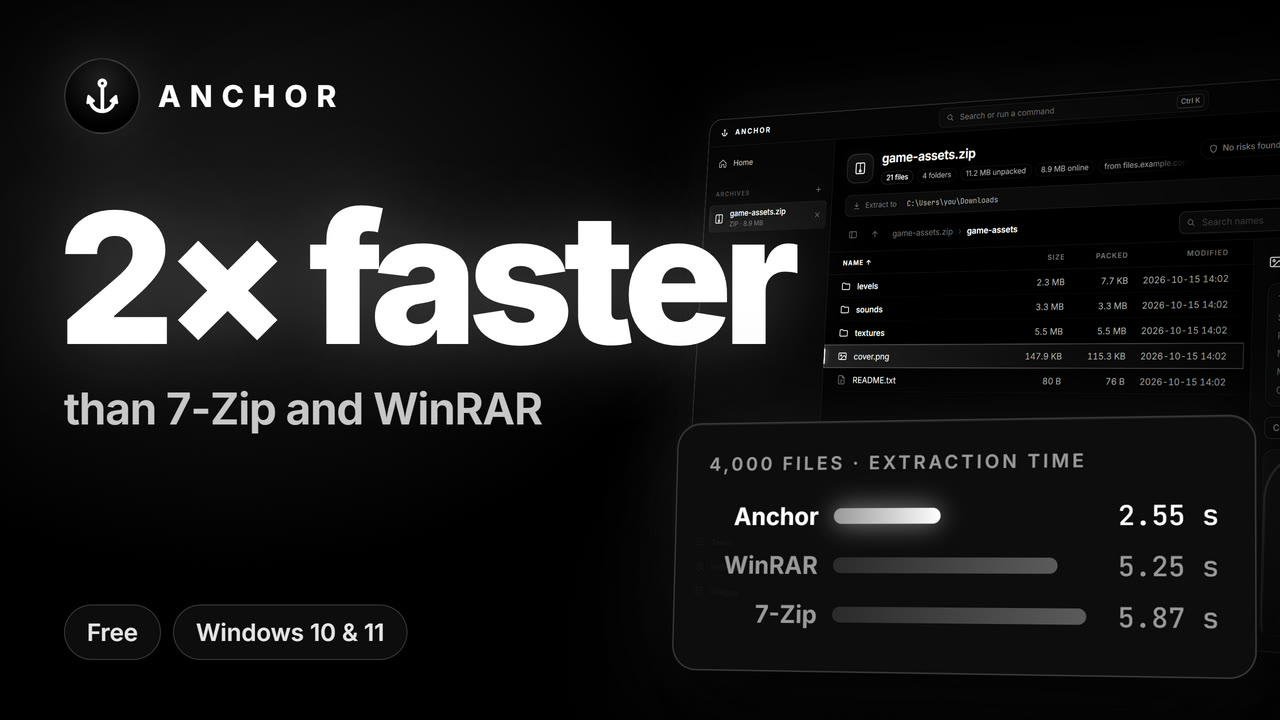
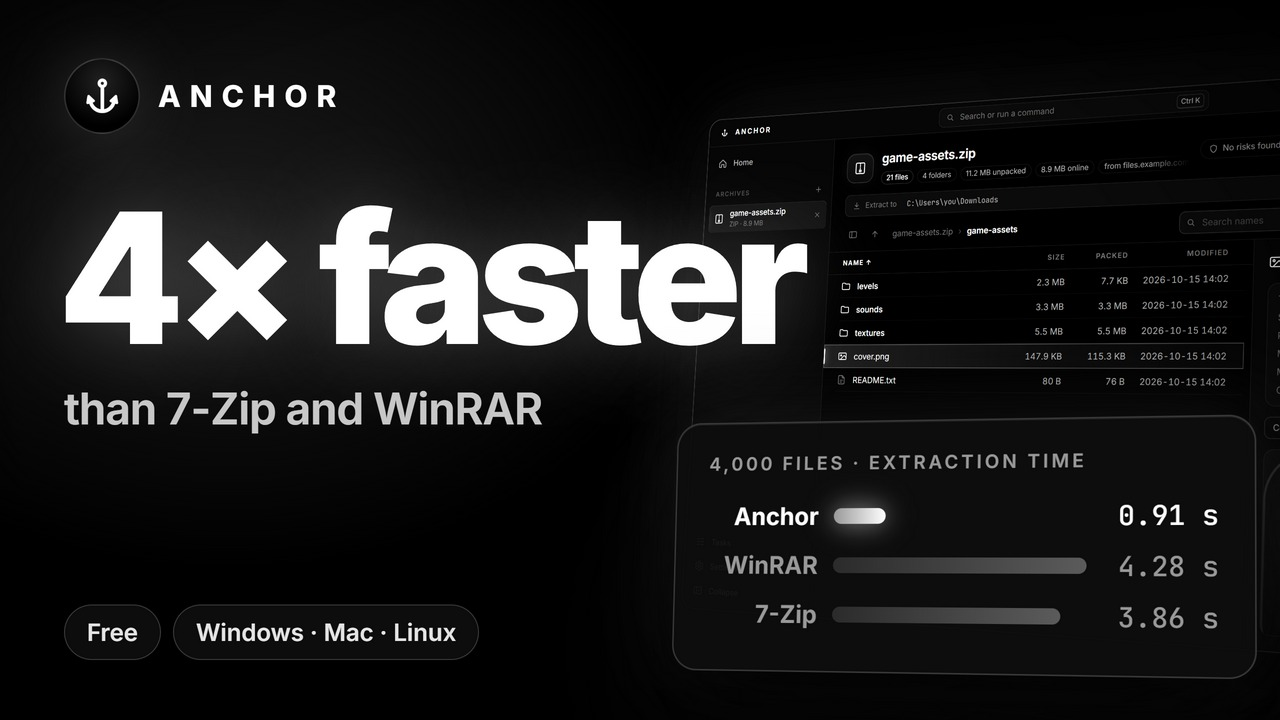
Anchor 0.6.0: Mac downloads, new speed numbers, accessibility fixes
Mac visitors get the Apple silicon .dmg (Intel a click away), an "On a Mac" install card, the
benchmark from 0.6.0 (up to 4x faster on archives with many files), structured data for search
engines, higher text contrast and row headers in the tables.

diff --git a/index.html b/index.html
@@ -3,17 +3,18 @@
 <head>
 <meta charset="utf-8">
 <meta name="viewport" content="width=device-width, initial-scale=1">
-<title>Anchor: the fast, free archive tool for Windows</title>
-<meta name="description" content="Anchor opens ZIP, 7Z, RAR, TAR, ZST, ISO and more, extracts many-file archives about 2× faster than 7-Zip and WinRAR, repairs broken downloads and checks archives before extracting. Free for Windows 10 and 11, and Linux.">
+<title>Anchor: the fast, free archive tool for Windows, Mac and Linux</title>
+<meta name="description" content="Anchor opens ZIP, 7Z, RAR, TAR, ZST, ISO and more, extracts many-file archives up to 4× faster than 7-Zip and WinRAR, repairs broken downloads and checks archives before extracting. Free for Windows, Mac and Linux.">
 <meta name="theme-color" content="#000000">
 <link rel="icon" href="assets/favicon.png">
 <link rel="apple-touch-icon" href="assets/icon.png">
 <meta property="og:type" content="website">
 <meta property="og:url" content="https://tryanchor.github.io/">
-<meta property="og:title" content="Anchor: the fast, free archive tool for Windows">
-<meta property="og:description" content="2× faster than 7-Zip and WinRAR on archives with many files. Opens ZIPs from a link, repairs broken downloads, flags disguised programs. Free.">
+<meta property="og:title" content="Anchor: the fast, free archive tool for Windows, Mac and Linux">
+<meta property="og:description" content="Up to 4× faster than 7-Zip and WinRAR on archives with many files. Opens ZIPs from a link, repairs broken downloads, flags disguised programs. Free.">
 <meta property="og:image" content="https://tryanchor.github.io/assets/og.jpg">
 <meta name="twitter:card" content="summary_large_image">
+<script type="application/ld+json">{"@context":"https://schema.org","@type":"SoftwareApplication","name":"Anchor","description":"A fast, free archive tool: opens ZIP, 7Z, RAR, TAR, ZST, ISO and more, extracts archives with many files faster than 7-Zip and WinRAR, repairs broken downloads and checks archives before extracting.","url":"https://tryanchor.github.io/","downloadUrl":"https://github.com/realhenners/anchor-releases/releases/latest","image":"https://tryanchor.github.io/assets/og.jpg","applicationCategory":"UtilitiesApplication","operatingSystem":"Windows 10, Windows 11, macOS 12 or later, Linux","offers":{"@type":"Offer","price":"0","priceCurrency":"USD"},"author":{"@type":"Person","name":"realhenners"}}</script>
 <link rel="preload" href="assets/fonts/inter-latin-wght-normal.woff2" as="font" type="font/woff2" crossorigin>
 <link rel="stylesheet" href="style.css">
 </head>
@@ -37,7 +38,7 @@
     <div class="grid-bg" aria-hidden="true"></div>
     <div class="mark reveal" style="--d: 0"><img src="assets/logo.png" alt="Anchor logo" width="132" height="132"></div>
     <h1 class="reveal" style="--d: 1">Anchor</h1>
-    <p class="lead reveal" style="--d: 2">The archive tool for Windows that opens anything, extracts faster, and fixes what is broken.</p>
+    <p class="lead reveal" style="--d: 2">The archive tool that opens anything, extracts faster, and fixes what is broken. For Windows, Mac and Linux.</p>
     <ul class="pills reveal" style="--d: 3" aria-label="Formats">
       <li>ZIP</li><li>7Z</li><li>RAR</li><li>TAR</li><li>GZ</li><li>ZST</li><li>ISO</li>
     </ul>
@@ -46,9 +47,9 @@
         <svg width="22" height="22" viewBox="0 0 24 24" fill="none" stroke="currentColor" stroke-width="2" stroke-linecap="round" stroke-linejoin="round" aria-hidden="true"><path d="M12 4v11M7 10l5 5 5-5M5 20h14"/></svg>
         Download for Windows
       </a>
-      <p class="meta" data-download-meta>Free · Windows 10&nbsp;and&nbsp;11 and Linux · x64 and ARM64</p>
+      <p class="meta" data-download-meta>Free · Windows, Mac and Linux · x64 and ARM64</p>
       <button class="switch" type="button" data-arch-switch hidden></button>
-      <p class="note" data-platform-note hidden>Anchor is for Windows and Linux. Open this page on a Windows or Linux PC to download it.</p>
+      <p class="note" data-platform-note hidden>Anchor is for Windows, Mac and Linux. Open this page on a computer to download it.</p>
     </div>
     <div class="stage reveal" style="--d: 5">
       <img class="hero-shot" src="assets/shots/link-preview.webp" alt="Anchor showing the contents of a ZIP archive opened from a link, with a preview of an image" width="1239" height="780" data-tilt>
@@ -59,7 +60,7 @@
   <section class="section" id="speed">
     <p class="kicker reveal">Speed</p>
     <h2 class="reveal">Same archive. Three extractors.</h2>
-    <p class="sub reveal">Windows spends most of an extraction creating files, because antivirus checks each one. 7-Zip and WinRAR write them one at a time; Anchor decodes the archive once and writes up to 32 at the same time.</p>
+    <p class="sub reveal">Most of an extraction is spent decoding and creating files, and antivirus checks each new file. 7-Zip and WinRAR do it all one file at a time on one core; Anchor splits the archive across every core and writes many files at once.</p>
 
     <div class="tabs reveal" role="tablist" aria-label="Benchmark">
       <button role="tab" aria-selected="true" data-set="small">4,000 small files</button>
@@ -78,15 +79,15 @@
     </div>
 
     <div class="stats">
-      <div class="stat card reveal" style="--d: 0"><b data-count="2.3" data-suffix="×">0×</b><span>faster than 7-Zip</span></div>
-      <div class="stat card reveal" style="--d: 1"><b data-count="2.1" data-suffix="×">0×</b><span>faster than WinRAR</span></div>
+      <div class="stat card reveal" style="--d: 0"><b data-count="4.2" data-suffix="×">0×</b><span>faster than 7-Zip</span></div>
+      <div class="stat card reveal" style="--d: 1"><b data-count="4.7" data-suffix="×">0×</b><span>faster than WinRAR</span></div>
       <div class="stat card reveal" style="--d: 2"><b data-count="32" data-decimals="0">0</b><span>files written at once</span></div>
     </div>
 
     <details class="numbers reveal">
       <summary>See all the numbers</summary>
       <div class="numbers-body">
-        <p>Extraction time on one Windows PC with 24 cores; each tool extracted every archive three times into an empty folder, producing the same files, and the best time counts. Fastest in bold. Anchor is faster on archives with many files; with one or a few large files every tool waits on decompression, and 7-Zip and WinRAR are slightly faster on large 7Z and RAR files.</p>
+        <p>Extraction time on one Windows PC with 24 cores; each tool extracted every archive three times into an empty folder, producing the same files, and the best time counts. Fastest in bold. Anchor is fastest on archives with many files and on several large files, where it decodes them side by side. With one large file every tool waits on the same decompression: the times are close, and WinRAR is quicker on a single large RAR.</p>
         <div class="table-wrap"><table data-numbers></table></div>
       </div>
     </details>
@@ -105,7 +106,7 @@
       <article class="feature card reveal" style="--d: 5"><span class="icon" aria-hidden="true"><svg viewBox="0 0 24 24"><path d="M2 12s3.5-7 10-7 10 7 10 7-3.5 7-10 7S2 12 2 12z"/><circle cx="12" cy="12" r="3"/></svg></span><h3>Preview inside</h3><p>Images, video, audio, PDF and text, straight from the archive. Search names or text inside files.</p></article>
       <article class="feature card reveal" style="--d: 6"><span class="icon" aria-hidden="true"><svg viewBox="0 0 24 24"><rect x="3" y="3" width="18" height="18" rx="2"/><path d="M12 3v18M12 12h9M16.5 12v9"/></svg></span><h3>Size map</h3><p>See what takes the space and find duplicate files, with how much they waste.</p></article>
       <article class="feature card reveal" style="--d: 7"><span class="icon" aria-hidden="true"><svg viewBox="0 0 24 24"><rect x="5" y="11" width="14" height="10" rx="2"/><path d="M8 11V7a4 4 0 0 1 8 0v4"/></svg></span><h3>Passwords and recovery data</h3><p>AES-256 encryption, split volumes, and 5–20% repair data so damage can be fixed later.</p></article>
-      <article class="feature card reveal" style="--d: 8"><span class="icon" aria-hidden="true"><svg viewBox="0 0 24 24"><rect x="3" y="4" width="18" height="16" rx="2"/><path d="m7 9 3 3-3 3M13 15h4"/></svg></span><h3>Explorer and command line</h3><p>Right-click to extract, preview archives in Explorer's preview pane, or script it with the <code>anchor</code> command.</p></article>
+      <article class="feature card reveal" style="--d: 8"><span class="icon" aria-hidden="true"><svg viewBox="0 0 24 24"><rect x="3" y="4" width="18" height="16" rx="2"/><path d="m7 9 3 3-3 3M13 15h4"/></svg></span><h3>Explorer and command line</h3><p>Right-click an archive to extract it, or any files to pack them. Preview archives in Explorer's preview pane, or script it all with the <code>anchor</code> command.</p></article>
     </div>
 
     <div class="shots">
@@ -122,15 +123,15 @@
       <table class="compare">
         <thead><tr><th></th><th>Anchor</th><th>7-Zip</th><th>WinRAR</th></tr></thead>
         <tbody>
-          <tr><td>Extracts many files 2× faster</td><td class="yes">✓</td><td class="no">—</td><td class="no">—</td></tr>
-          <tr><td>Opens a ZIP from a link without downloading it all</td><td class="yes">✓</td><td class="no">—</td><td class="no">—</td></tr>
-          <tr><td>Repairs damaged ZIPs without recovery data</td><td class="yes">✓</td><td class="no">—</td><td class="yes">✓</td></tr>
-          <tr><td>Recovery data for any archive</td><td class="yes">✓</td><td class="no">—</td><td>RAR only</td></tr>
-          <tr><td>Safety check for disguised programs and zip bombs</td><td class="yes">✓</td><td class="no">—</td><td class="no">—</td></tr>
-          <tr><td>Undo an extraction</td><td class="yes">✓</td><td class="no">—</td><td class="no">—</td></tr>
-          <tr><td>Size map with duplicate files</td><td class="yes">✓</td><td class="no">—</td><td class="no">—</td></tr>
-          <tr><td>Creates RAR archives</td><td class="no">—</td><td class="no">—</td><td class="yes">✓</td></tr>
-          <tr><td>Free, with no nag screen</td><td class="yes">✓</td><td class="yes">✓</td><td class="no">—</td></tr>
+          <tr><th scope="row">Extracts many files up to 4× faster</th><td class="yes">✓</td><td class="no">—</td><td class="no">—</td></tr>
+          <tr><th scope="row">Opens a ZIP from a link without downloading it all</th><td class="yes">✓</td><td class="no">—</td><td class="no">—</td></tr>
+          <tr><th scope="row">Repairs damaged ZIPs without recovery data</th><td class="yes">✓</td><td class="no">—</td><td class="yes">✓</td></tr>
+          <tr><th scope="row">Recovery data for any archive</th><td class="yes">✓</td><td class="no">—</td><td>RAR only</td></tr>
+          <tr><th scope="row">Safety check for disguised programs and zip bombs</th><td class="yes">✓</td><td class="no">—</td><td class="no">—</td></tr>
+          <tr><th scope="row">Undo an extraction</th><td class="yes">✓</td><td class="no">—</td><td class="no">—</td></tr>
+          <tr><th scope="row">Size map with duplicate files</th><td class="yes">✓</td><td class="no">—</td><td class="no">—</td></tr>
+          <tr><th scope="row">Creates RAR archives</th><td class="no">—</td><td class="no">—</td><td class="yes">✓</td></tr>
+          <tr><th scope="row">Free, with no nag screen</th><td class="yes">✓</td><td class="yes">✓</td><td class="no">—</td></tr>
         </tbody>
       </table>
     </div>
@@ -141,19 +142,24 @@
     <div class="grid-bg" aria-hidden="true"></div>
     <div class="mark small reveal"><img src="assets/logo.png" alt="" width="88" height="88"></div>
     <h2 class="reveal">Get Anchor</h2>
-    <p class="sub reveal">Free for Windows 10 and 11, and Linux. No admin rights needed, and it tells you when there is a new version.</p>
+    <p class="sub reveal">Free for Windows, Mac and Linux. No admin rights needed, and it keeps itself up to date.</p>
     <div class="cta reveal">
       <a class="btn btn-primary" href="https://github.com/realhenners/anchor-releases/releases/latest" data-download>
         <svg width="22" height="22" viewBox="0 0 24 24" fill="none" stroke="currentColor" stroke-width="2" stroke-linecap="round" stroke-linejoin="round" aria-hidden="true"><path d="M12 4v11M7 10l5 5 5-5M5 20h14"/></svg>
         Download for Windows
       </a>
-      <p class="meta" data-download-meta>Free · Windows 10&nbsp;and&nbsp;11 and Linux · x64 and ARM64</p>
+      <p class="meta" data-download-meta>Free · Windows, Mac and Linux · x64 and ARM64</p>
     </div>
 
     <div class="files card reveal" data-files hidden>
       <h3>All downloads <span data-version></span></h3>
       <div data-file-list></div>
-      <p class="small">Check a download in PowerShell: <code>Get-FileHash .\Anchor-Setup-&lt;version&gt;.exe</code> and compare it with the SHA-256 above.</p>
+      <p class="small">Check a download against its SHA-256 above: <code>Get-FileHash .\Anchor-Setup-&lt;version&gt;.exe</code> in PowerShell, <code>shasum -a 256</code> on a Mac, <code>sha256sum</code> on Linux.</p>
+    </div>
+
+    <div class="smartscreen card reveal">
+      <h3>On a Mac</h3>
+      <p>Open the <b>.dmg</b> and drag Anchor into Applications. Anchor isn't signed by Apple yet, so the first time macOS can't check it: open <b>System Settings › Privacy &amp; Security</b> and click <b>Open Anyway</b>. After that it opens like any other app.</p>
     </div>
 
     <div class="smartscreen card reveal">
@@ -174,13 +180,13 @@
     <h2 class="reveal">Questions</h2>
     <div class="faq">
       <details class="reveal"><summary>Is Anchor really free?</summary><div><p>Yes, at home and at work. No ads, no trial, no nag screen.</p></div></details>
-      <details class="reveal"><summary>Does it collect any data?</summary><div><p>No. Anchor goes online only to check GitHub for a new version when it starts (you can switch that off) and to fetch an archive you open from a link. No accounts, no tracking, no telemetry.</p></div></details>
+      <details class="reveal"><summary>Does it collect any data?</summary><div><p>No. Anchor goes online only to check GitHub for a new version and download it (you can switch that off) and to fetch an archive you open from a link. No accounts, no tracking, no telemetry.</p></div></details>
       <details class="reveal"><summary>Is it safe? Why does Windows warn me?</summary><div><p>The warning appears because the installer isn't code-signed yet; certificates are expensive for a solo developer. Each release lists SHA-256 checksums and a VirusTotal scan link, so you can check exactly what you downloaded.</p></div></details>
-      <details class="reveal"><summary>Is it faster for every archive?</summary><div><p>It's about 2× faster on archives with many files, which is most of them: mods, projects, photos, backups. With one or a few large files every tool waits on decompression and the results are about the same. All the measured numbers are in the Speed section.</p></div></details>
+      <details class="reveal"><summary>Is it faster for every archive?</summary><div><p>It's about 2 to 4× faster on archives with many files, which is most of them: mods, projects, photos, backups, and faster on several large files too, which it decodes side by side. With one large file every tool waits on the same decompression and the results are about the same. All the measured numbers are in the Speed section.</p></div></details>
       <details class="reveal"><summary>Can it create RAR archives?</summary><div><p>Anchor opens and extracts RAR, but creates ZIP, 7Z, TAR.ZST and TAR.GZ. The RAR format is proprietary.</p></div></details>
       <details class="reveal"><summary>Is it open source?</summary><div><p>Anchor is free, closed-source software. It builds on open-source parts, credited with their licences in the app: 7-Zip (LGPL), par2cmdline (GPL) and Electron (MIT).</p></div></details>
-      <details class="reveal"><summary>Does it work on Linux or Mac?</summary><div><p>Linux, yes: x64 and ARM64, as an AppImage that runs on any distribution or a .deb for Ubuntu and Debian. The Explorer menu and setup window are Windows-only. There is no Mac version yet.</p></div></details>
-      <details class="reveal"><summary>How do I uninstall it?</summary><div><p>Settings › Apps › Installed apps › Anchor › Uninstall. Your settings can be removed too.</p></div></details>
+      <details class="reveal"><summary>Does it work on a Mac or on Linux?</summary><div><p>Yes. On a Mac: Apple silicon and Intel, macOS 12 or later. On Linux: x64 and ARM64, as an AppImage that runs on any distribution or a .deb for Ubuntu and Debian. The Explorer menu and the setup window are Windows-only.</p></div></details>
+      <details class="reveal"><summary>How do I uninstall it?</summary><div><p>On Windows: Settings › Apps › Installed apps › Anchor › Uninstall; your settings can be removed too. On a Mac, drag Anchor from Applications to the Trash. On Linux, delete the AppImage, or <code>sudo apt remove anchor</code> for the .deb.</p></div></details>
     </div>
   </section>
 </main>

diff --git a/script.js b/script.js
@@ -47,9 +47,9 @@ if (shot && !calm) {
 // ---------- the race: measured times, played back in real time ----------
 // bench-results.json, ZIP archives, best of three runs, milliseconds: Anchor, WinRAR, 7-Zip
 const SETS = {
-  small: { times: [2549, 5251, 5870], caption: 'A ZIP with 4,000 small files, played back in real time.' },
-  mod: { times: [610, 1460, 1020], caption: 'A game mod pack: 603 files, 200 MB, played back in real time.' },
-  large: { times: [406, 583, 354], caption: 'One 200 MB file: every tool waits on decompression, and 7-Zip is a little quicker here.' },
+  small: { times: [910, 4278, 3864], caption: 'A ZIP with 4,000 small files, played back in real time.' },
+  mod: { times: [265, 1101, 560], caption: 'A game mod pack: 603 files, 200 MB, played back in real time.' },
+  large: { times: [304, 557, 296], caption: 'One 200 MB file: every tool waits on decompression, so the times are close.' },
 };
 const race = $('[data-race]');
 const lanes = race ? $$('.lane', race) : [];
@@ -113,16 +113,16 @@ $$('[data-count]').forEach((el) => counted.observe(el));
 
 // ---------- all the numbers ----------
 const NUMBERS = [
-  ['4,000 small files', [['ZIP', 2549, 5870, 5251], ['7Z', 2355, 5776, null], ['RAR', 2556, 5121, 3751], ['TAR.GZ', 2166, 5777, 10851], ['TAR.ZST', 3327, 6486, 10948]]],
-  ['Mod pack, 603 files, 200 MB', [['ZIP', 610, 1020, 1460], ['7Z', 687, 1078, 11692], ['RAR', 671, 1033, 961], ['TAR.GZ', 539, 1203, 2406], ['TAR.ZST', 663, 1191, 1809]]],
-  ['8 large files, 320 MB', [['ZIP', 325, 515, 879], ['7Z', 402, 318, 827], ['RAR', 374, 275, 260], ['TAR.GZ', 640, 827, 1204], ['TAR.ZST', 260, 434, 320]]],
-  ['1 large file, 200 MB', [['ZIP', 406, 354, 583], ['7Z', 312, 244, 335], ['RAR', 641, 566, 326], ['TAR.GZ', 448, 550, 759], ['TAR.ZST', 205, 298, 238]]],
+  ['4,000 small files', [['ZIP', 910, 3864, 4278], ['7Z', 1127, 2927, null], ['RAR', 920, 2472, 1775], ['TAR.GZ', 1136, 2541, 9037], ['TAR.ZST', 1422, 2459, 8764]]],
+  ['Mod pack, 603 files, 200 MB', [['ZIP', 265, 560, 1101], ['7Z', 380, 614, null], ['RAR', 224, 595, 743], ['TAR.GZ', 367, 711, 2066], ['TAR.ZST', 479, 708, 1187]]],
+  ['8 large files, 320 MB', [['ZIP', 165, 444, 775], ['7Z', 256, 261, 368], ['RAR', 161, 204, 200], ['TAR.GZ', 623, 678, 1082], ['TAR.ZST', 240, 314, 253]]],
+  ['1 large file, 200 MB', [['ZIP', 304, 296, 557], ['7Z', 216, 200, 292], ['RAR', 522, 524, 278], ['TAR.GZ', 430, 508, 757], ['TAR.ZST', 206, 228, 201]]],
 ];
 const seconds = (ms) => (ms === null ? 'over 2 min' : `${(ms / 1000).toFixed(2)} s`);
 if ($('[data-numbers]')) $('[data-numbers]').innerHTML = `<thead><tr><th>Archive</th><th>Anchor</th><th>7-Zip 26.04</th><th>WinRAR 7.23</th></tr></thead><tbody>${NUMBERS.flatMap(([set, rows]) =>
   rows.map(([format, ...times]) => {
     const best = Math.min(...times.filter((t) => t !== null));
-    return `<tr><td>${set} · ${format}</td>${times.map((t) => `<td>${t === best ? `<b>${seconds(t)}</b>` : seconds(t)}</td>`).join('')}</tr>`;
+    return `<tr><th scope="row">${set} · ${format}</th>${times.map((t) => `<td>${t === best ? `<b>${seconds(t)}</b>` : seconds(t)}</td>`).join('')}</tr>`;
   })
 ).join('')}</tbody>`;
 
@@ -148,28 +148,36 @@ $$('details').forEach((details) => {
 
 // ---------- downloads: the newest release, the right installer for this PC ----------
 const size = (bytes) => `${(bytes / 1048576).toFixed(1)} MB`;
-async function architecture() {
-  // Chromium browsers say whether the PC is ARM; others are almost always x64
+async function architecture(os) {
+  // Chromium browsers say whether the computer is ARM. Others: a PC is almost always x64, a Mac
+  // almost always Apple silicon (Safari does not tell), and the switch link covers the rest.
   try {
     const { architecture: arch } = await navigator.userAgentData.getHighEntropyValues(['architecture']);
     return arch === 'arm' ? 'arm64' : 'x64';
   } catch {
-    return 'x64';
+    return os === 'mac' ? 'arm64' : 'x64';
   }
 }
 // every installer in a release, by system, processor and package type
 const KINDS = [
   { key: 'windows-x64', label: 'Windows · x64', test: /Setup-[\d.]+\.exe$/ },
   { key: 'windows-arm64', label: 'Windows · ARM64', test: /Setup-[\d.]+-arm64\.exe$/ },
+  { key: 'mac-arm64', label: 'Mac · Apple silicon', test: /-arm64\.dmg$/ },
+  { key: 'mac-x64', label: 'Mac · Intel', test: /-x64\.dmg$/ },
   { key: 'linux-x64', label: 'Linux AppImage · x64', test: /x86_64\.AppImage$/ },
   { key: 'linux-arm64', label: 'Linux AppImage · ARM64', test: /arm64\.AppImage$/ },
   { key: 'deb-x64', label: 'Linux .deb · x64', test: /amd64\.deb$/ },
   { key: 'deb-arm64', label: 'Linux .deb · ARM64', test: /arm64\.deb$/ },
 ];
-const SYSTEM = { windows: 'Windows 10 and 11', linux: 'AppImage for any Linux' };
+const SYSTEM = { windows: 'Windows 10 and 11', mac: 'macOS 12 or later', linux: 'AppImage for any Linux' };
+const NAMES = { windows: 'Windows', mac: 'Mac', linux: 'Linux' };
+// how a processor is called on each system
+const chip = (target, arch) => (target === 'mac' ? (arch === 'arm64' ? 'Apple silicon' : 'Intel') : arch === 'arm64' ? 'ARM64' : 'x64');
 function system() {
   const ua = navigator.userAgent;
   if (/Windows/i.test(ua) && !/Windows Phone/i.test(ua)) return 'windows';
+  // an iPad asks for the desktop site as a "Macintosh" too, but has a touch screen
+  if (/Macintosh|Mac OS X/i.test(ua) && !(navigator.maxTouchPoints > 1)) return 'mac';
   if (/Linux|X11|CrOS/i.test(ua) && !/Android/i.test(ua)) return 'linux';
   return 'other';
 }
@@ -188,9 +196,9 @@ async function downloads() {
   }
   const version = release.tag_name.replace(/^v/, '');
   const builds = Object.fromEntries(KINDS.map((kind) => [kind.key, release.assets.find((a) => kind.test.test(a.name))]));
-  // Linux visitors get Linux files, everyone else the Windows ones
-  const target = os === 'linux' && builds['linux-x64'] ? 'linux' : 'windows';
-  let arch = await architecture();
+  // Mac and Linux visitors get their own files (once the release has them), everyone else Windows'
+  const target = os !== 'other' && builds[`${os}-x64`] ? os : 'windows';
+  let arch = await architecture(os);
   const point = () => {
     const build = builds[`${target}-${arch}`] || builds[`${target}-x64`];
     if (!build) return;
@@ -199,13 +207,13 @@ async function downloads() {
       a.removeAttribute('target');
       // the button's label is its last text node, after the icon
       const label = [...a.childNodes].reverse().find((node) => node.nodeType === 3 && node.textContent.trim());
-      if (label && /Download for/.test(label.textContent)) label.textContent = ` Download for ${target === 'linux' ? 'Linux' : 'Windows'} `;
+      if (label && /Download for/.test(label.textContent)) label.textContent = ` Download for ${NAMES[target]} `;
     });
-    $$('[data-download-meta]').forEach((p) => (p.textContent = `Version ${version} · ${arch === 'arm64' ? 'ARM64' : 'x64'} · ${size(build.size)} · ${SYSTEM[target]}`));
+    $$('[data-download-meta]').forEach((p) => (p.textContent = `Version ${version} · ${chip(target, arch)} · ${size(build.size)} · ${SYSTEM[target]}`));
     const switcher = $('[data-arch-switch]');
     if (!switcher) return;
     switcher.hidden = !builds[`${target}-arm64`] || os === 'other';
-    switcher.textContent = `Need the ${arch === 'arm64' ? 'x64' : 'ARM64'} version?`;
+    switcher.textContent = `Need the ${chip(target, arch === 'arm64' ? 'x64' : 'arm64')} version?`;
   };
   $('[data-arch-switch]')?.addEventListener('click', () => {
     arch = arch === 'arm64' ? 'x64' : 'arm64';

diff --git a/style.css b/style.css
@@ -12,7 +12,7 @@
   --line-strong: rgba(255, 255, 255, 0.16);
   --text: #fff;
   --text-2: #a8a8a8;
-  --text-3: #6e6e6e;
+  --text-3: #787878; /* 4.8:1 on black: readable small text */
   /* motion: a spring with a little overshoot, a long ease-out, and a soft ease-in-out */
   --spring: cubic-bezier(0.34, 1.56, 0.64, 1);
   --out: cubic-bezier(0.16, 1, 0.3, 1);
@@ -131,6 +131,8 @@ th:first-child, td:first-child { text-align: left; white-space: normal; }
 th { color: var(--text-3); font-weight: 600; font-size: 13px; letter-spacing: 0.06em; text-transform: uppercase; }
 td { font-family: Mono, monospace; color: var(--text-2); }
 td:first-child { font-family: Inter, sans-serif; color: #cfcfcf; }
+/* a row's name is its header (for screen readers), and looks like the first cell */
+tbody th { font: inherit; font-family: Inter, sans-serif; color: #cfcfcf; letter-spacing: 0; text-transform: none; }
 td b { color: #fff; font-weight: 500; }
 tbody tr { transition: background-color 0.3s var(--out); }
 tbody tr:hover { background: rgba(255, 255, 255, 0.03); }

diff --git a/releases/index.html b/releases/index.html
@@ -4,7 +4,7 @@
 <meta charset="utf-8">
 <meta name="viewport" content="width=device-width, initial-scale=1">
 <title>Releases · Anchor</title>
-<meta name="description" content="Every version of Anchor, the fast, free archive tool for Windows: what changed, downloads, SHA-256 checksums and VirusTotal scans.">
+<meta name="description" content="Every version of Anchor, the fast, free archive tool for Windows, Mac and Linux: what changed, downloads, SHA-256 checksums and VirusTotal scans.">
 <meta name="theme-color" content="#000000">
 <link rel="icon" href="../assets/favicon.png">
 <meta property="og:title" content="Anchor releases">

diff --git a/license/index.html b/license/index.html
@@ -5,7 +5,7 @@
 <meta charset="utf-8">
 <meta name="viewport" content="width=device-width, initial-scale=1">
 <title>Licence · Anchor</title>
-<meta name="description" content="The licence agreement for Anchor, the free archive tool for Windows.">
+<meta name="description" content="The licence agreement for Anchor, the free archive tool for Windows, Mac and Linux.">
 <meta name="theme-color" content="#000000">
 <link rel="icon" href="../assets/favicon.png">
 <meta property="og:title" content="Anchor licence agreement">
